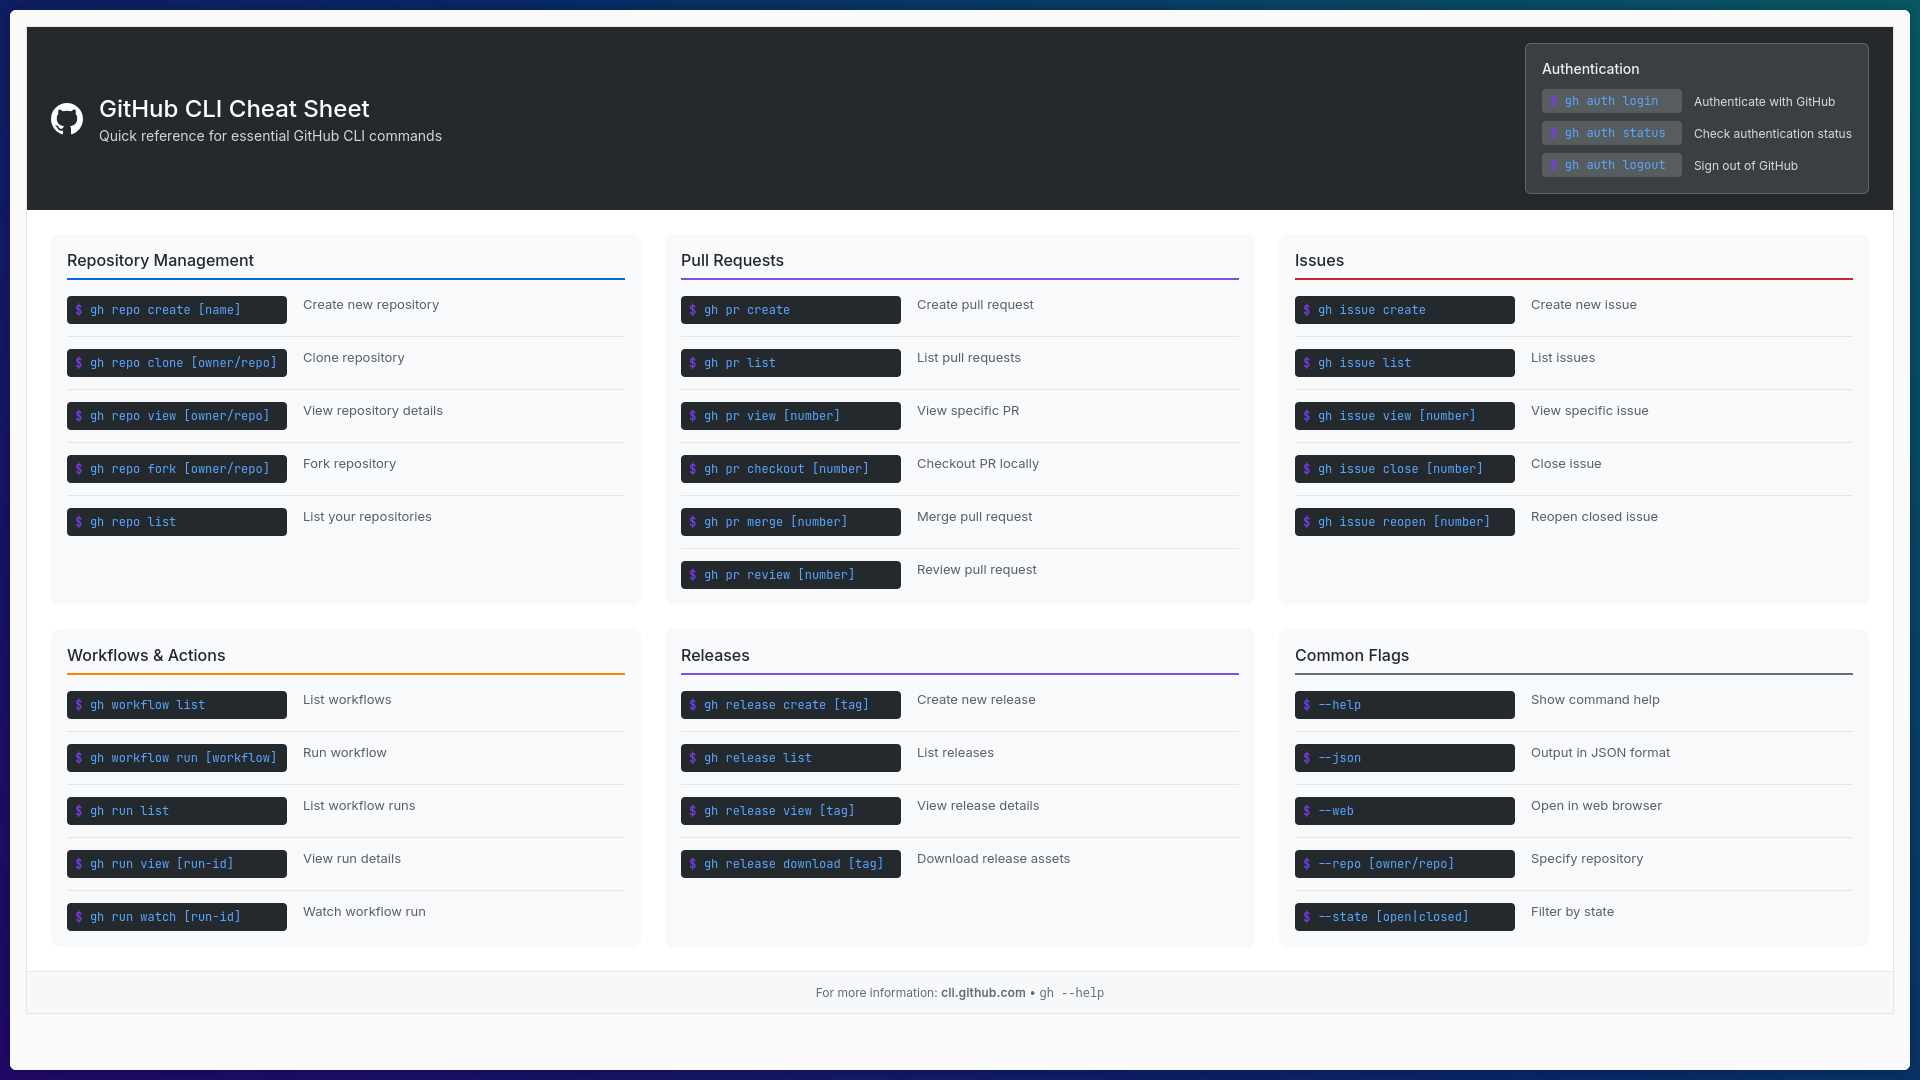
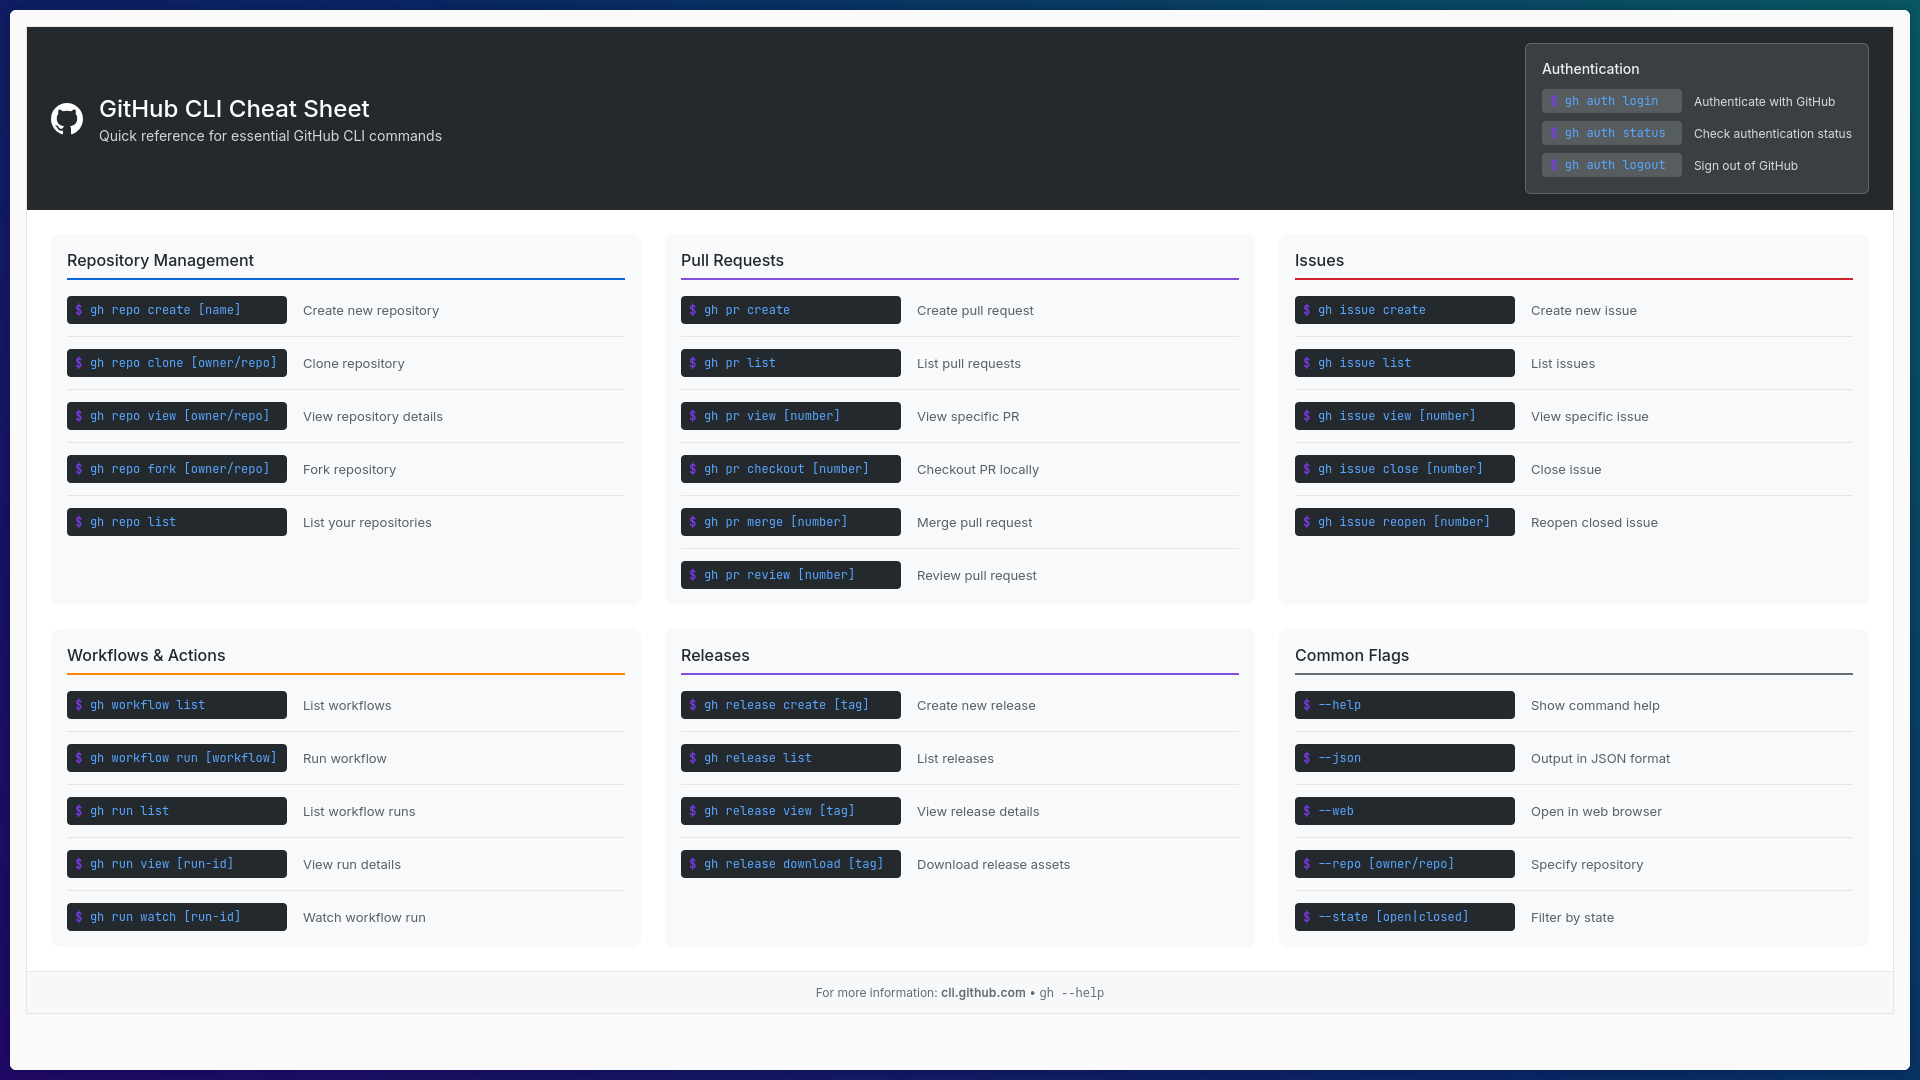
fix: row center alignment

diff --git a/index.html b/index.html
@@ -178,7 +178,7 @@
             margin-bottom: 0.75rem;
             padding-bottom: 0.75rem;
             border-bottom: 1px solid #e5e5e5;
-            align-items: flex-start;
+            align-items: center;
         }
         
         /* Remove border from last command row */
